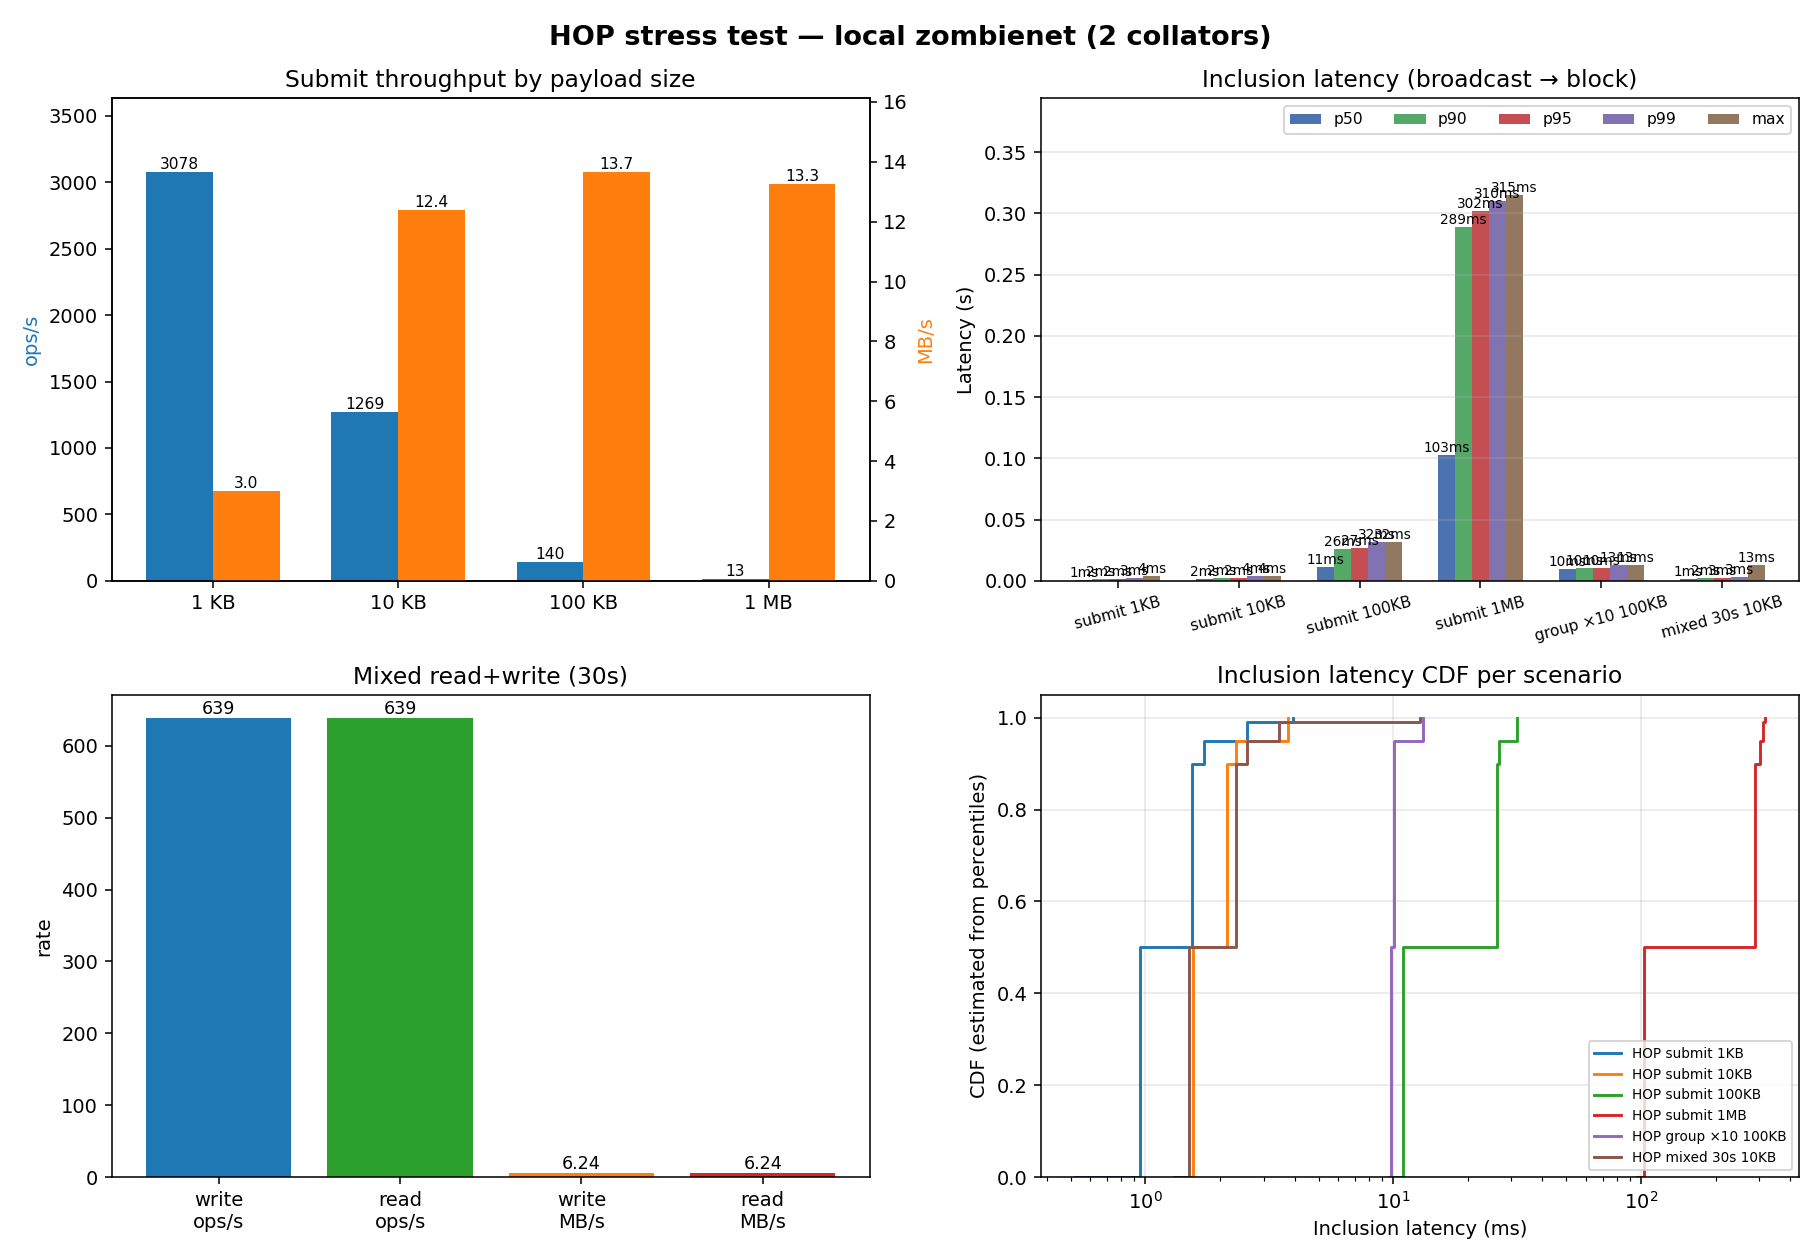
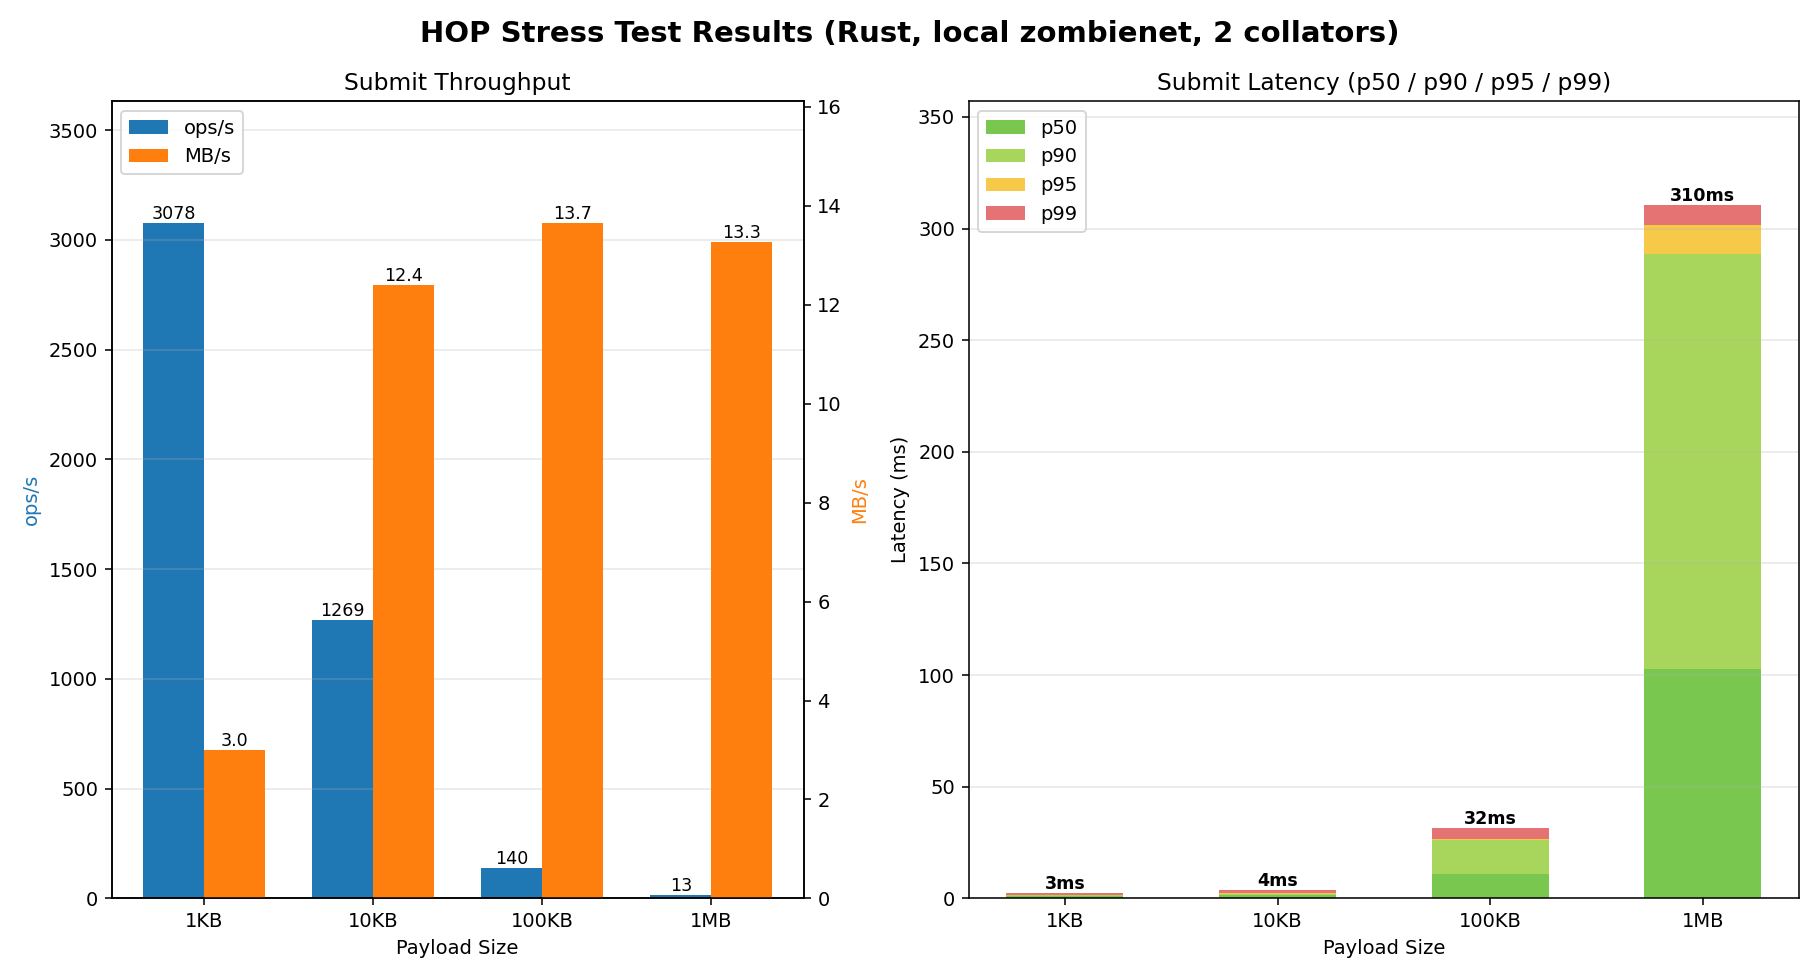
stress-test: switch HOP plot to stacked-bar latency style
Two-panel layout: left = throughput (ops/s + MB/s), right = stacked
latency where each colour band shows the additional time at the next
percentile (p50 / p90 - p50 / p95 - p90 / p99 - p95). The stacked top
is annotated with the overall p99.

diff --git a/stress-test/plot-hop-results.py b/stress-test/plot-hop-results.py
@@ -1,13 +1,11 @@
 #!/usr/bin/env python3
 """
-Render a PNG summary chart from a stress-test --output-file JSON.
+Render a 2-panel chart from a stress-test --output-file JSON.
 
-The Rust stress-test writes a JSON array of ScenarioResult records.
-This script reads that file and produces a 4-panel chart:
-  - Submit throughput at varying payload sizes (ops/s + MB/s)
-  - Inclusion latency percentiles (p50/p90/p95/p99/max)
-  - Mixed scenario read vs write throughput
-  - Per-item inclusion latency CDF (per scenario)
+Left panel:  throughput (ops/s + MB/s) per payload size.
+Right panel: latency percentile bars stacked as p50 + (p90 - p50) +
+             (p95 - p90) + (p99 - p95). Each band shows the *additional*
+             latency contributed by tightening the percentile.
 
 Usage:
   ./plot-hop-results.py results/hop-all.json -o stress-test/hop-results.png
@@ -26,7 +24,6 @@ PAYLOAD_RE = re.compile(r"(\d+(?:\.\d+)?)\s*(B|KB|MB|GB)$")
 
 
 def parse_payload(name: str) -> float | None:
-    """Extract payload size in bytes from scenario name suffix like '1 KB'."""
     m = PAYLOAD_RE.search(name)
     if not m:
         return None
@@ -36,172 +33,110 @@ def parse_payload(name: str) -> float | None:
 
 def fmt_payload(size: float) -> str:
     if size >= 1024 ** 2:
-        return f"{size / 1024 ** 2:.0f} MB"
+        return f"{int(size // 1024 ** 2)}MB"
     if size >= 1024:
-        return f"{size / 1024:.0f} KB"
-    return f"{int(size)} B"
+        return f"{int(size // 1024)}KB"
+    return f"{int(size)}B"
+
+
+def duration_ms(d) -> float:
+    if isinstance(d, dict):
+        return float(d.get("secs", 0)) * 1000.0 + float(d.get("nanos", 0)) / 1_000_000.0
+    return float(d) * 1000.0
 
 
 def main() -> int:
     ap = argparse.ArgumentParser()
     ap.add_argument("input", type=Path, help="results JSON from --output-file")
     ap.add_argument("-o", "--output", type=Path, required=True)
-    ap.add_argument("--title", default="HOP stress test — local zombienet (2 collators)")
+    ap.add_argument("--title",
+                    default="HOP Stress Test Results (Rust, local zombienet, 2 collators)")
     args = ap.parse_args()
 
     with args.input.open() as f:
         results = json.load(f)
 
-    fig, axes = plt.subplots(2, 2, figsize=(13, 9))
-    fig.suptitle(args.title, fontsize=14, fontweight="bold")
+    submits = [r for r in results
+               if r.get("name", "").startswith("HOP submit ")
+               and r.get("inclusion_latency")]
+    submits.sort(key=lambda r: parse_payload(r["name"]) or 0)
+    if not submits:
+        print("No HOP submit-only results with latency data", file=sys.stderr)
+        return 1
 
-    # 1. Submit-only throughput (across payload sizes)
-    submits = [r for r in results if r["name"].startswith("HOP submit ")]
-    ax = axes[0, 0]
-    if submits:
-        sizes = [parse_payload(r["name"]) or 0 for r in submits]
-        ops = [r.get("throughput_tps", 0.0) for r in submits]
-        mbs = [r.get("throughput_bytes_per_sec", 0.0) / (1024 ** 2) for r in submits]
-        labels = [fmt_payload(s) for s in sizes]
-        x = np.arange(len(submits))
-        bw = 0.36
-        ax.bar(x - bw / 2, ops, bw, label="ops/s", color="#1f77b4")
-        ax2 = ax.twinx()
-        ax2.bar(x + bw / 2, mbs, bw, label="MB/s", color="#ff7f0e")
-        ax.set_xticks(x); ax.set_xticklabels(labels)
-        ax.set_ylabel("ops/s", color="#1f77b4")
-        ax2.set_ylabel("MB/s", color="#ff7f0e")
-        ax.set_title("Submit throughput by payload size")
-        ax.set_ylim(0, max(ops) * 1.18 if ops else 1)
-        ax2.set_ylim(0, max(mbs) * 1.18 if mbs else 1)
-        for i, (o, m) in enumerate(zip(ops, mbs)):
-            ax.annotate(f"{o:.0f}", (i - bw / 2, o), ha="center", va="bottom", fontsize=8)
-            ax2.annotate(f"{m:.1f}", (i + bw / 2, m), ha="center", va="bottom", fontsize=8)
-    else:
-        ax.set_title("(no submit-only results)")
+    labels = [fmt_payload(parse_payload(r["name"]) or 0) for r in submits]
+    ops = [r.get("throughput_tps", 0.0) for r in submits]
+    mbs = [r.get("throughput_bytes_per_sec", 0.0) / (1024 ** 2) for r in submits]
 
-    # 2. Inclusion latency percentiles for all scenarios that have it
-    with_lat = [r for r in results if r.get("inclusion_latency")]
-    ax = axes[0, 1]
-    if with_lat:
-        plot_percentile_bars(ax, with_lat,
-                            "Inclusion latency (broadcast → block)")
-    else:
-        ax.set_title("(no inclusion-latency samples)")
+    fig, (ax_left, ax_right) = plt.subplots(
+        1, 2, figsize=(13, 7), gridspec_kw={"width_ratios": [1, 1.2]}
+    )
+    fig.suptitle(args.title, fontsize=15, fontweight="bold")
 
-    # 3. Mixed read/write or other special scenario throughput summary
-    ax = axes[1, 0]
-    mixed = next((r for r in results if "mixed" in r["name"].lower()), None)
-    if mixed:
-        labels, vals, colors = [], [], []
-        if mixed.get("throughput_tps", 0):
-            labels.append("write\nops/s"); vals.append(mixed["throughput_tps"]); colors.append("#1f77b4")
-        if mixed.get("reads_per_sec"):
-            labels.append("read\nops/s"); vals.append(mixed["reads_per_sec"]); colors.append("#2ca02c")
-        if mixed.get("throughput_bytes_per_sec"):
-            labels.append("write\nMB/s"); vals.append(mixed["throughput_bytes_per_sec"] / 1024 ** 2); colors.append("#ff7f0e")
-        if mixed.get("read_bytes_per_sec"):
-            labels.append("read\nMB/s"); vals.append(mixed["read_bytes_per_sec"] / 1024 ** 2); colors.append("#d62728")
-        bars = ax.bar(np.arange(len(labels)), vals, color=colors)
-        ax.set_xticks(np.arange(len(labels))); ax.set_xticklabels(labels)
-        ax.set_ylabel("rate")
-        dur = mixed.get("duration", {})
-        if isinstance(dur, dict):
-            dur_s = dur.get("secs", 0) + dur.get("nanos", 0) / 1e9
-            dur_label = f"{dur_s:.0f}s"
-        else:
-            dur_label = f"{dur}s"
-        ax.set_title(f"Mixed read+write ({dur_label})")
-        for b, v in zip(bars, vals):
-            ax.annotate(
-                f"{v:.0f}" if v >= 10 else f"{v:.2f}",
-                (b.get_x() + b.get_width() / 2, v),
-                ha="center", va="bottom", fontsize=9,
-            )
-    else:
-        # Fallback: show overall scenario throughput as bar chart
-        all_with_tps = [r for r in results if r.get("throughput_tps", 0) > 0]
-        labels = [r["name"][:24] for r in all_with_tps]
-        vals = [r.get("throughput_tps", 0) for r in all_with_tps]
-        ax.barh(np.arange(len(labels)), vals, color="#1f77b4")
-        ax.set_yticks(np.arange(len(labels))); ax.set_yticklabels(labels, fontsize=8)
-        ax.set_xlabel("ops/s")
-        ax.set_title("Throughput per scenario")
+    # ---------------- Left: throughput ----------------
+    x = np.arange(len(submits))
+    bw = 0.36
+    ax_left.bar(x - bw / 2, ops, bw, label="ops/s", color="#1f77b4")
+    ax_l2 = ax_left.twinx()
+    ax_l2.bar(x + bw / 2, mbs, bw, label="MB/s", color="#ff7f0e")
+    ax_left.set_xticks(x); ax_left.set_xticklabels(labels)
+    ax_left.set_xlabel("Payload Size")
+    ax_left.set_ylabel("ops/s", color="#1f77b4")
+    ax_l2.set_ylabel("MB/s", color="#ff7f0e")
+    ax_left.set_title("Submit Throughput")
+    if ops:
+        ax_left.set_ylim(0, max(ops) * 1.18)
+    if mbs:
+        ax_l2.set_ylim(0, max(mbs) * 1.18)
+    for i, (o, m) in enumerate(zip(ops, mbs)):
+        ax_left.annotate(f"{o:.0f}", (i - bw / 2, o), ha="center", va="bottom", fontsize=9)
+        ax_l2.annotate(f"{m:.1f}", (i + bw / 2, m), ha="center", va="bottom", fontsize=9)
+    h1, l1 = ax_left.get_legend_handles_labels()
+    h2, l2 = ax_l2.get_legend_handles_labels()
+    ax_left.legend(h1 + h2, l1 + l2, loc="upper left", fontsize=10)
+    ax_left.grid(True, alpha=0.3, axis="y")
 
-    # 4. Inclusion latency CDF per scenario (where samples exist as a series)
-    ax = axes[1, 1]
-    drew = False
-    for r in with_lat:
-        # No raw arrays in the JSON — synthesize a step CDF from p50/p90/p95/p99/max
-        lat = r["inclusion_latency"]
-        if not lat:
-            continue
-        # Stair from min/p50/p90/p95/p99/max
-        xs_ms = [
-            duration_ms(lat.get("min", lat.get("p50", 0))),
-            duration_ms(lat["p50"]),
-            duration_ms(lat.get("p90", lat["p95"])),
-            duration_ms(lat["p95"]),
-            duration_ms(lat["p99"]),
-            duration_ms(lat["max"]),
-        ]
-        ys = [0.0, 0.5, 0.9, 0.95, 0.99, 1.0]
-        ax.plot(xs_ms, ys, drawstyle="steps-post", linewidth=1.5,
-                label=r["name"][:32])
-        drew = True
-    ax.set_xlabel("Inclusion latency (ms)")
-    ax.set_ylabel("CDF (estimated from percentiles)")
-    ax.set_title("Inclusion latency CDF per scenario")
-    if drew:
-        ax.legend(fontsize=7, loc="lower right")
-        ax.set_xscale("log")
-    ax.grid(True, alpha=0.3)
-    ax.set_ylim(0.0, 1.05)
+    # ---------------- Right: stacked latency ----------------
+    p50 = np.array([duration_ms(r["inclusion_latency"]["p50"]) for r in submits])
+    p90 = np.array([
+        duration_ms(r["inclusion_latency"].get("p90", r["inclusion_latency"]["p95"]))
+        for r in submits
+    ])
+    p95 = np.array([duration_ms(r["inclusion_latency"]["p95"]) for r in submits])
+    p99 = np.array([duration_ms(r["inclusion_latency"]["p99"]) for r in submits])
+
+    seg_p90 = np.maximum(p90 - p50, 0)
+    seg_p95 = np.maximum(p95 - p90, 0)
+    seg_p99 = np.maximum(p99 - p95, 0)
+
+    bar_w = 0.55
+    ax_right.bar(x, p50,    bar_w, label="p50", color="#7ac74f")
+    ax_right.bar(x, seg_p90, bar_w, bottom=p50,
+                 label="p90", color="#a8d65c")
+    ax_right.bar(x, seg_p95, bar_w, bottom=p50 + seg_p90,
+                 label="p95", color="#f7c948")
+    ax_right.bar(x, seg_p99, bar_w, bottom=p50 + seg_p90 + seg_p95,
+                 label="p99", color="#e57373")
+
+    for i, total in enumerate(p99):
+        ax_right.annotate(
+            f"{total:.0f}ms" if total < 1000 else f"{total / 1000:.2f}s",
+            (i, total), ha="center", va="bottom", fontsize=9, fontweight="bold",
+        )
+
+    ax_right.set_xticks(x); ax_right.set_xticklabels(labels)
+    ax_right.set_xlabel("Payload Size")
+    ax_right.set_ylabel("Latency (ms)")
+    ax_right.set_title("Submit Latency (p50 / p90 / p95 / p99)")
+    ax_right.legend(loc="upper left", fontsize=10)
+    ax_right.set_ylim(0, max(p99) * 1.15 if p99.size else 1)
+    ax_right.grid(True, alpha=0.3, axis="y")
 
     plt.tight_layout()
     args.output.parent.mkdir(parents=True, exist_ok=True)
     fig.savefig(args.output, dpi=140)
     print(f"Wrote {args.output}", file=sys.stderr)
     return 0
-
-
-def duration_ms(d) -> float:
-    """ScenarioResult durations serialise as { secs, nanos }."""
-    if isinstance(d, dict):
-        return float(d.get("secs", 0)) * 1000.0 + float(d.get("nanos", 0)) / 1_000_000.0
-    return float(d)
-
-
-def plot_percentile_bars(ax, results: list[dict], title: str) -> None:
-    metrics = ["p50", "p90", "p95", "p99", "max"]
-    colors = ["#4c72b0", "#55a868", "#c44e52", "#8172b2", "#937860"]
-    width = 0.14
-    x = np.arange(len(results))
-
-    max_val = 0.0
-    for i, m in enumerate(metrics):
-        vals = []
-        for r in results:
-            lat = r.get("inclusion_latency") or {}
-            v = duration_ms(lat.get(m, lat.get("p99", 0))) / 1000.0
-            vals.append(v)
-        max_val = max(max_val, max(vals) if vals else 0.0)
-        offset = (i - (len(metrics) - 1) / 2) * width
-        bars = ax.bar(x + offset, vals, width, label=m, color=colors[i])
-        for b, v in zip(bars, vals):
-            if v > 0:
-                ax.annotate(
-                    f"{v:.1f}s" if v >= 1 else f"{v * 1000:.0f}ms",
-                    (b.get_x() + b.get_width() / 2, v),
-                    ha="center", va="bottom", fontsize=7,
-                )
-    labels = [r["name"].replace("HOP ", "")[:18] for r in results]
-    ax.set_xticks(x); ax.set_xticklabels(labels, fontsize=8, rotation=15)
-    ax.set_ylim(0, max_val * 1.25 if max_val else 1)
-    ax.set_ylabel("Latency (s)")
-    ax.set_title(title)
-    ax.legend(loc="upper right", fontsize=8, ncol=5)
-    ax.grid(True, alpha=0.3, axis="y")
 
 
 if __name__ == "__main__":
